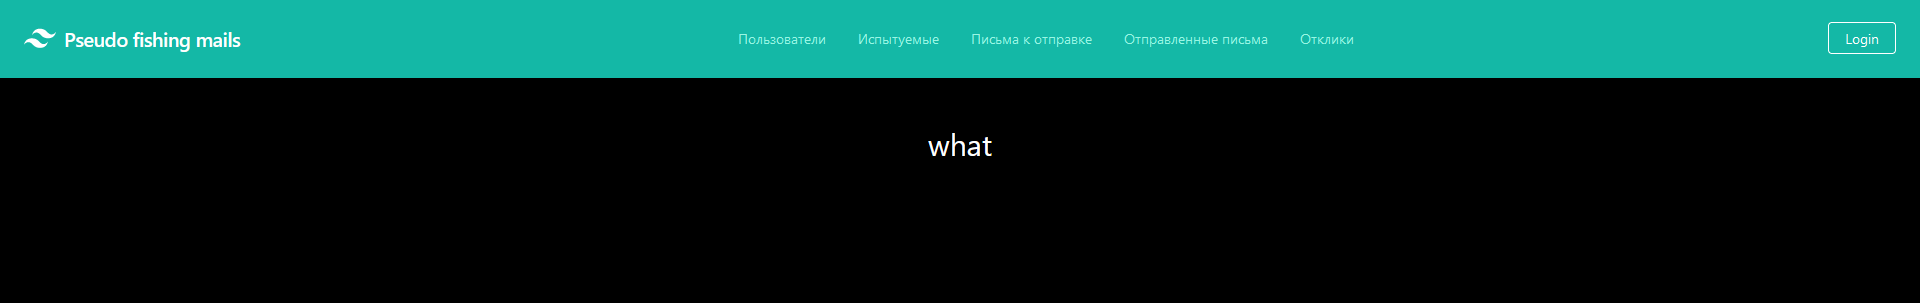
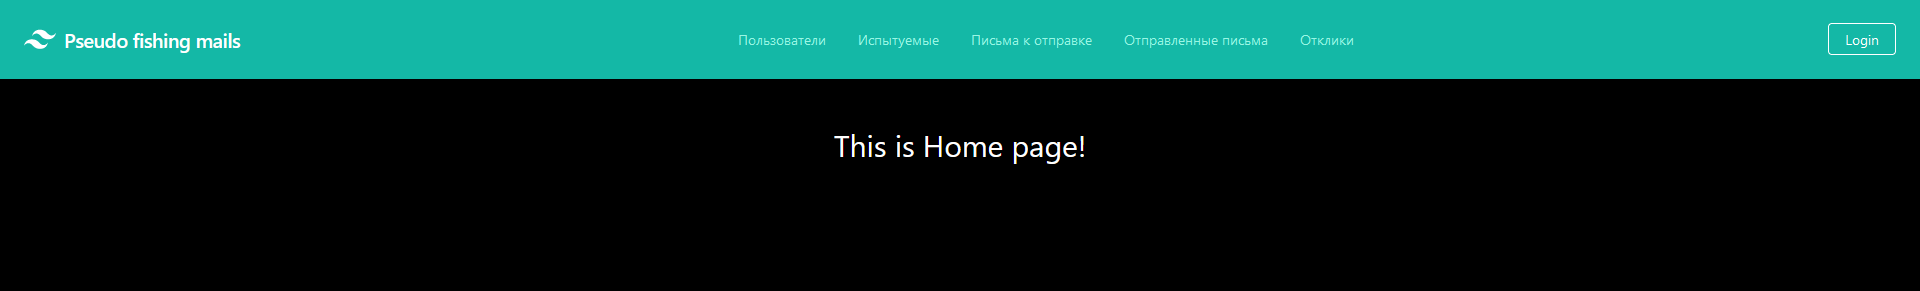
front: поправил окошко авторизации

diff --git a/frontend/src/pages/auth/index.jsx b/frontend/src/pages/auth/index.jsx
@@ -1,6 +1,6 @@
 import React, {useState} from 'react';
 import DashboardHeader from "../../components/DashboardHeader";
-import {Link, useNavigate} from "react-router-dom";
+import {useNavigate} from "react-router-dom";
 import FastAPIClient from '../../client';
 import config from '../../config';
 import Button from '../../components/Button/Button';
@@ -9,8 +9,8 @@ import FormInput from '../../components/FormInput/FormInput';
 const client = new FastAPIClient(config);
 
 const Auth = () => {
-  const [error, setError] = useState({email: "", password: ""});
-  const [loginForm, setLoginForm] = useState({ email: '', password: '' });
+  const [error, setError] = useState({username: "", password: ""});
+  const [loginForm, setLoginForm] = useState({ username: '', password: '' });
 
   const [loading, setLoading] = useState(false)
 
@@ -21,10 +21,10 @@ const Auth = () => {
     setError(false);
     setLoading(true)
 
-    if(loginForm.email.length <= 0)
+    if(loginForm.username.length <= 0)
     {
       setLoading(false)
-      return setError({email: "Please Enter Email Address"}) 
+      return setError({username: "Please Enter Username"})
     }
     if(loginForm.password.length <= 0)
     {
@@ -32,7 +32,7 @@ const Auth = () => {
       return setError({password: "Please Enter Password"})
     }
 
-    client.login(loginForm.email, loginForm.password)
+    client.login(loginForm.username, loginForm.password)
       .then( () => {
         navigate('/')
       })
@@ -61,16 +61,16 @@ const Auth = () => {
               <form onSubmit={(e) => onLogin(e)}>
                 <FormInput 
                   type={"text"}
-                  name={"email"}
-                  label={"Email"}
-                  error={error.email}
-                  value={loginForm.email}
-                  onChange={(e) => setLoginForm({...loginForm, email: e.target.value })}
+                  name={"username"}
+                  label={"Имя пользователя"}
+                  error={error.username}
+                  value={loginForm.username}
+                  onChange={(e) => setLoginForm({...loginForm, username: e.target.value })}
                 />
                 <FormInput 
                   type={"password"}
                   name={"password"}
-                  label={"Password"}
+                  label={"Пароль"}
                   error={error.password}
                   value={loginForm.password} 
                   onChange={(e) => setLoginForm({...loginForm, password: e.target.value })}
@@ -81,9 +81,6 @@ const Auth = () => {
                   error={error.password}
                   />      
               </form>
-              <footer>
-                <Link className="text-teal-700 hover:text-blue-900 text-sm float-right" to="/sign-up">Create Account</Link>
-              </footer> 
             </div>
           </div>
       </section>

diff --git a/frontend/src/pages/home/index.jsx b/frontend/src/pages/home/index.jsx
@@ -20,7 +20,7 @@ const Home = () => {
 
                          <div className="flex flex-col flex-wrap pb-6 mb-12 text-white ">
                               <h1 className="mb-6 text-3xl font-medium text-white">
-                                   what
+                                   This is Home page!
                               </h1>
                          </div>
                     </div>
